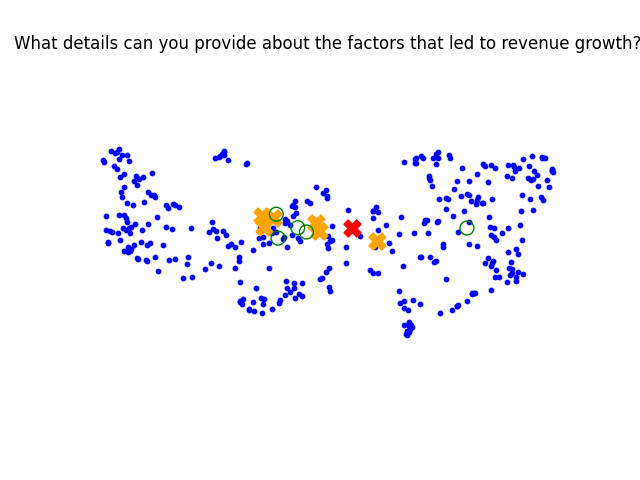
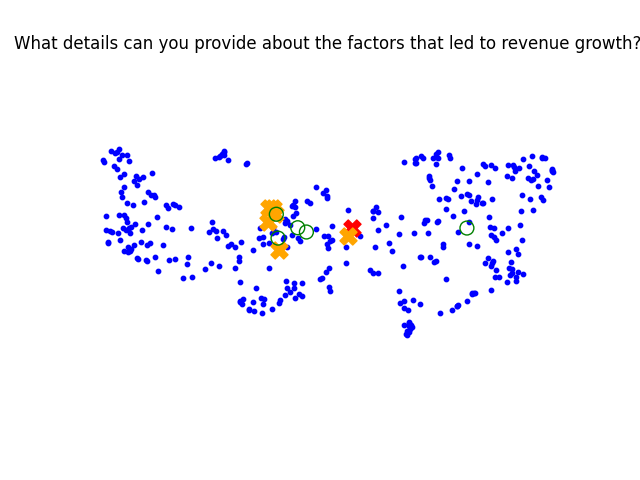
updated

Changed region(s): [[0.375, 0.4062, 0.625, 0.5312]]

diff --git a/multiple_query_expansion.py b/multiple_query_expansion.py
@@ -59,7 +59,7 @@ document = Document(page_content = full_document)
 character_split_texts = character_splitter.split_documents([document]) # Splitting the string into chucks of size 1000
 
 # print(character_split_texts[0])
-print(f"\nTotal Number of chucks: {len(character_split_texts)}") # Number of chucks - 350
+print(f"Total Number of chucks based on character splitting: {len(character_split_texts)}") # Number of chucks - 350
 
 # Splitting these character-based chunks further into token-based chunks
 token_splitter = SentenceTransformersTokenTextSplitter(
@@ -74,7 +74,6 @@ for text in character_split_texts:
     token_split_texts += token_splitter.split_text(text.page_content) 
 
 # print(token_split_texts[0])
-print("\n")
 print(f"Number of chucks after token based splitting: {len(token_split_texts)}") # 359 from 350
 
 #Using embedding function from chromadb to convert words into vectors
@@ -141,47 +140,56 @@ def gen_augument_query(query, model = "llama3-8b-8192"):
 
 original_query = ("What details can you provide about the factors that led to revenue growth?")
 
-# chroma_collection.query performs a similarity search
-hypothetical_answer = chroma_collection.query(
-    query_texts = [original_query],
-    n_results = 5,                          # Returns the top 5 results
-    include = ["documents", "embeddings"]   # returns both (actual text of the chunk, their vector representations)
-)
-
-retrieved_documents = hypothetical_answer["documents"][0]
-print(f"The hypothetical Answer to the original query: {retrieved_documents}")
-
+# Generating augumented queries and printing them
 aug_queries = gen_augument_query(original_query)
-
-# Displaying the augumented queries
 print("The augumented Queries are:")
 for query in aug_queries:
     print("\n- ", query)
 
 # Combining original query with augumented queries
-print("Displaying all the queries:")
 all_queries = [original_query] + aug_queries
-# print("\n", all_queries)
+
+# chroma_collection.query performs a similarity search
+answers = chroma_collection.query(
+    query_texts = all_queries,
+    n_results = 5,                          # Returns the top 5 results
+    include = ["documents", "embeddings"]   # returns both (actual text of the chunk, their vector representations)
+)
+
+# Retrieving just the documents(answer to each query)
+retrieved_results = answers["documents"][0]
+
+# Deduplicating the retrieved answer
+unique_docs = set()
+for documents in retrieved_results:
+    for doc in documents: 
+        unique_docs.add(doc)
+
+# Printing the retrieved answer for each query
+print("")
+for i, docs in enumerate(retrieved_results):
+    print(f"Query: {all_queries[i]}")
+    print("")
+    print("Result:")
+    print(docs)
+    print("-" * 100)
 
 # Visualising the embeddings in a lower-dimensional space - to identify meaningful patterns
-
-#.get() retrieves a dictionary from collection
-data = chroma_collection.get(include=["embeddings"])
-
-# Accessing only the embeddings from the dictionary
-embeddings = data["embeddings"]
-
-# Dimensionality reduction using UMAP (Uniform Manifold Approximation and Projection)
 import umap
-umap_transform = umap.UMAP(random_state = 0, transform_seed = 0).fit(embeddings)
 
 # Projecting the embedding into a lower dimensional space using UMAP transformer.
 def project_embeddings(embeddings, umap_transform):
     return umap_transform.transform(embeddings)
 
-projected_dataset_embeddings = project_embeddings(embeddings, umap_transform )
+# Embeddings for the entire dataset in the vector space
+data = chroma_collection.get(include=["embeddings"])    #.get() retrieves the dictionary from collection
+embeddings = data["embeddings"]     # Accessing only the embeddings from the dictionary
 
-retrieved_embeddings = hypothetical_answer["embeddings"][0]
+# Dimensionality reduction using UMAP (Uniform Manifold Approximation and Projection)
+umap_transform = umap.UMAP(random_state = 0, transform_seed = 0).fit(embeddings)
+
+# Reducing the dimensions of the document embeddings
+projected_dataset_embeddings = project_embeddings(embeddings, umap_transform )
 
 # Converting the queries into embeddings to compare them directly with the document embeddings
 original_query_embeddings = embedding_function([original_query])
@@ -190,7 +198,11 @@ augumented_query_embeddings = embedding_function(all_queries)
 # Projecting the query embeddings into the same UMAP space as the dataset
 project_original_query = project_embeddings(original_query_embeddings, umap_transform)
 project_augumented_query = project_embeddings(augumented_query_embeddings, umap_transform)
-project_retrieved_embedding = project_embeddings(retrieved_embeddings, umap_transform)
+
+retrieved_embeddings = answers["embeddings"]
+result_embeddings = [item for sublist in retrieved_embeddings for item in sublist]
+project_answers_embedding = project_embeddings(result_embeddings, umap_transform)
+
 # Ideally, the queries should be close to relevant document clusters.
 
 # Visualising the embeddings
@@ -201,6 +213,7 @@ plt.scatter(
     projected_dataset_embeddings[:, 0],     
     projected_dataset_embeddings[:, 1],     
     s = 10,                                 # Size of dots
+    facecolors = "none",
     color = "blue"
 )
 
@@ -224,8 +237,8 @@ plt.scatter(
 
 # Plotting the retrieved documents - Shows the search results
 plt.scatter(
-    project_retrieved_embedding[:, 0],
-    project_retrieved_embedding[:, 1],
+    project_answers_embedding[:, 0],
+    project_answers_embedding[:, 1],
     s = 100, 
     facecolors = "none",    # Hollow circle
     edgecolors = "g",       
